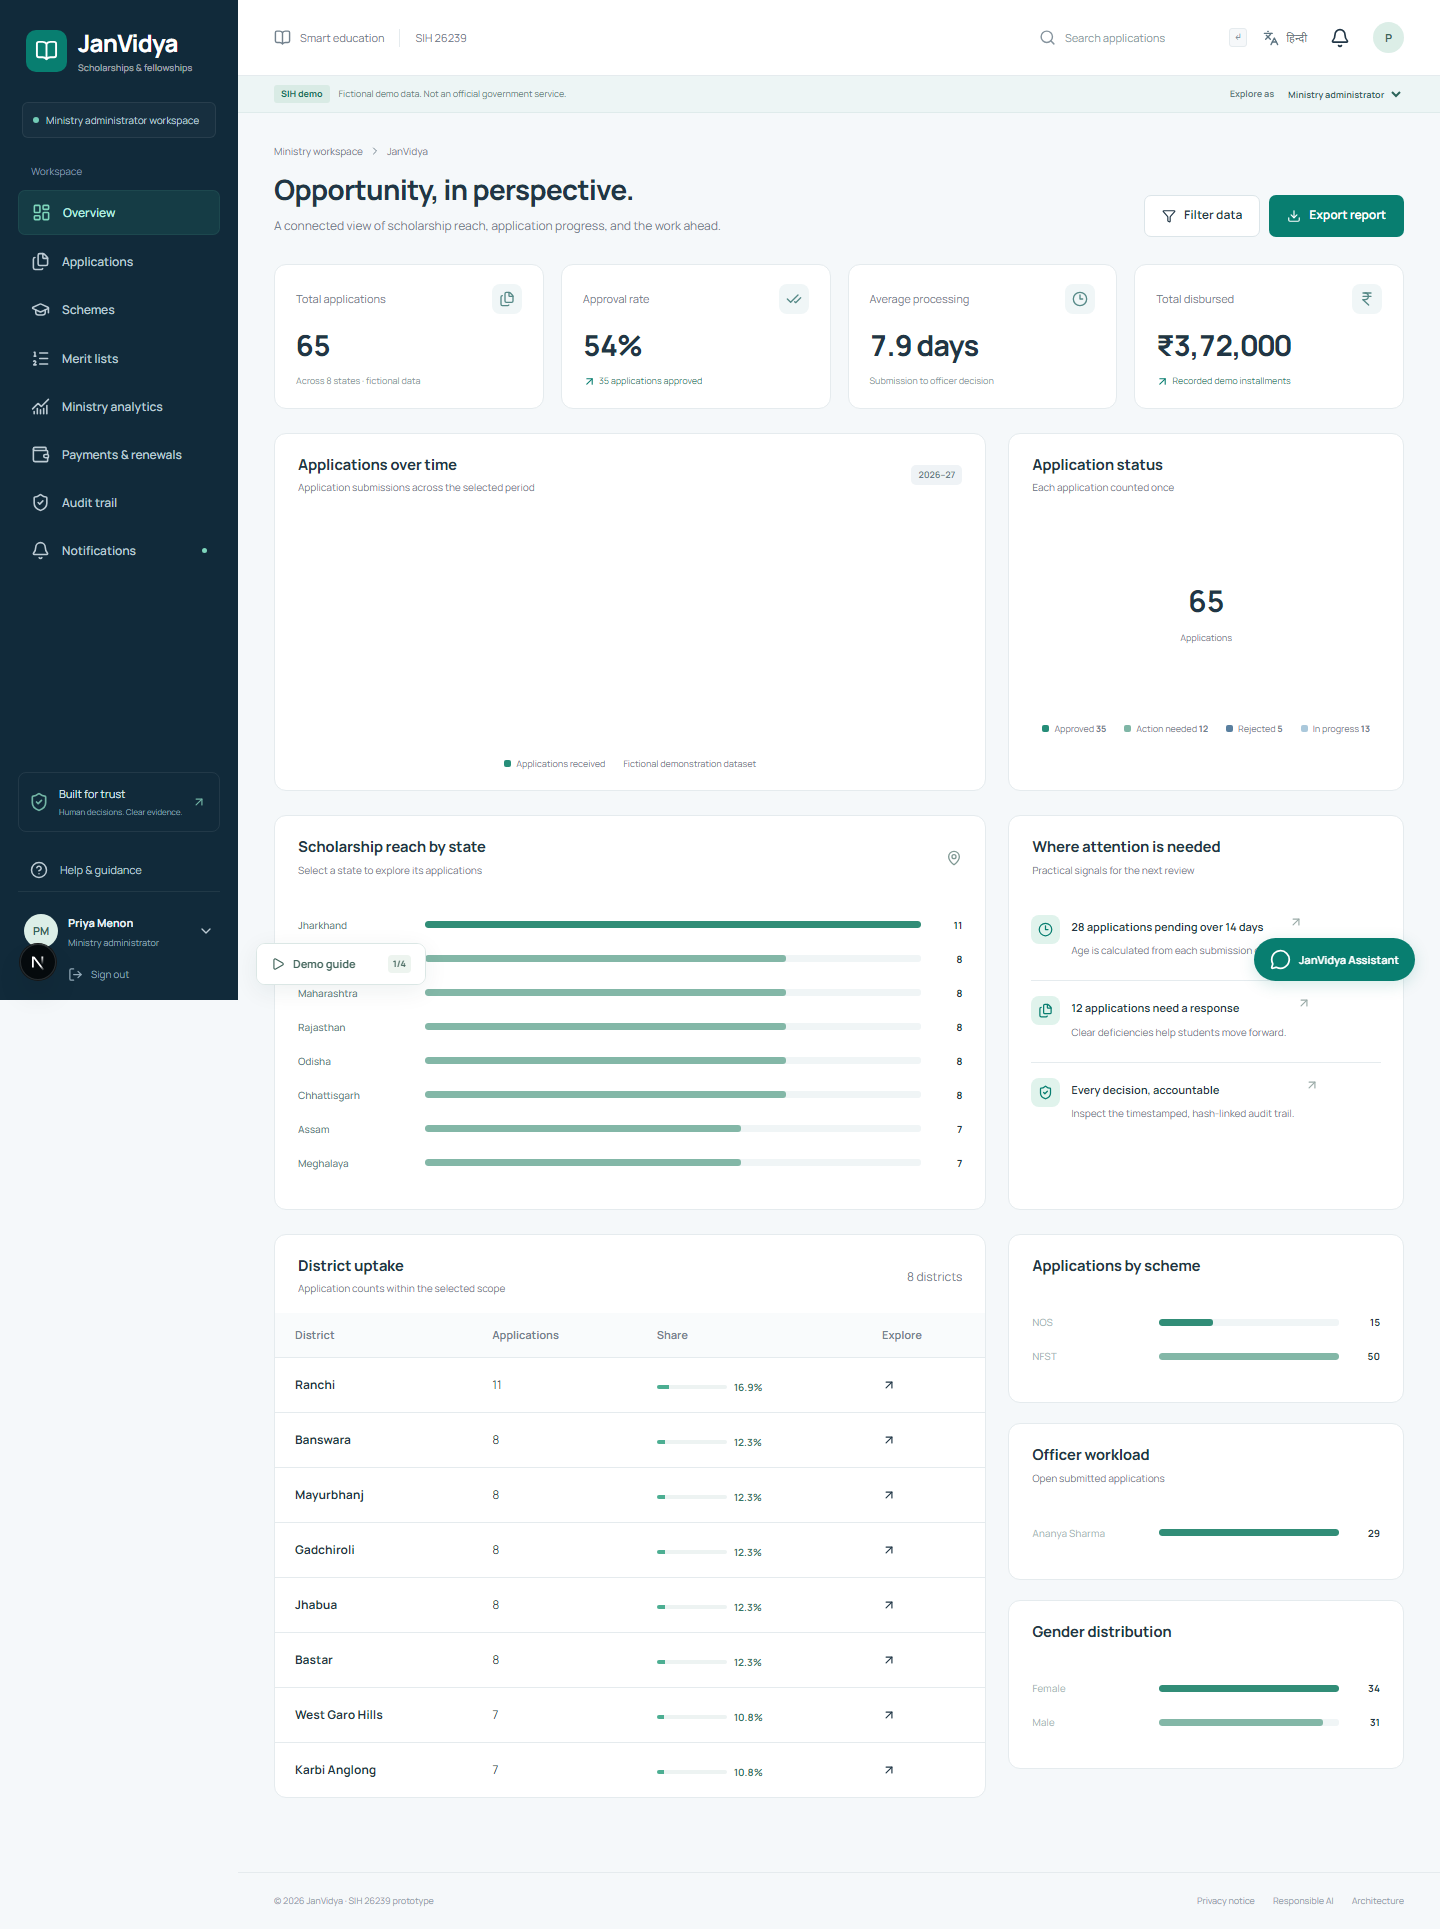
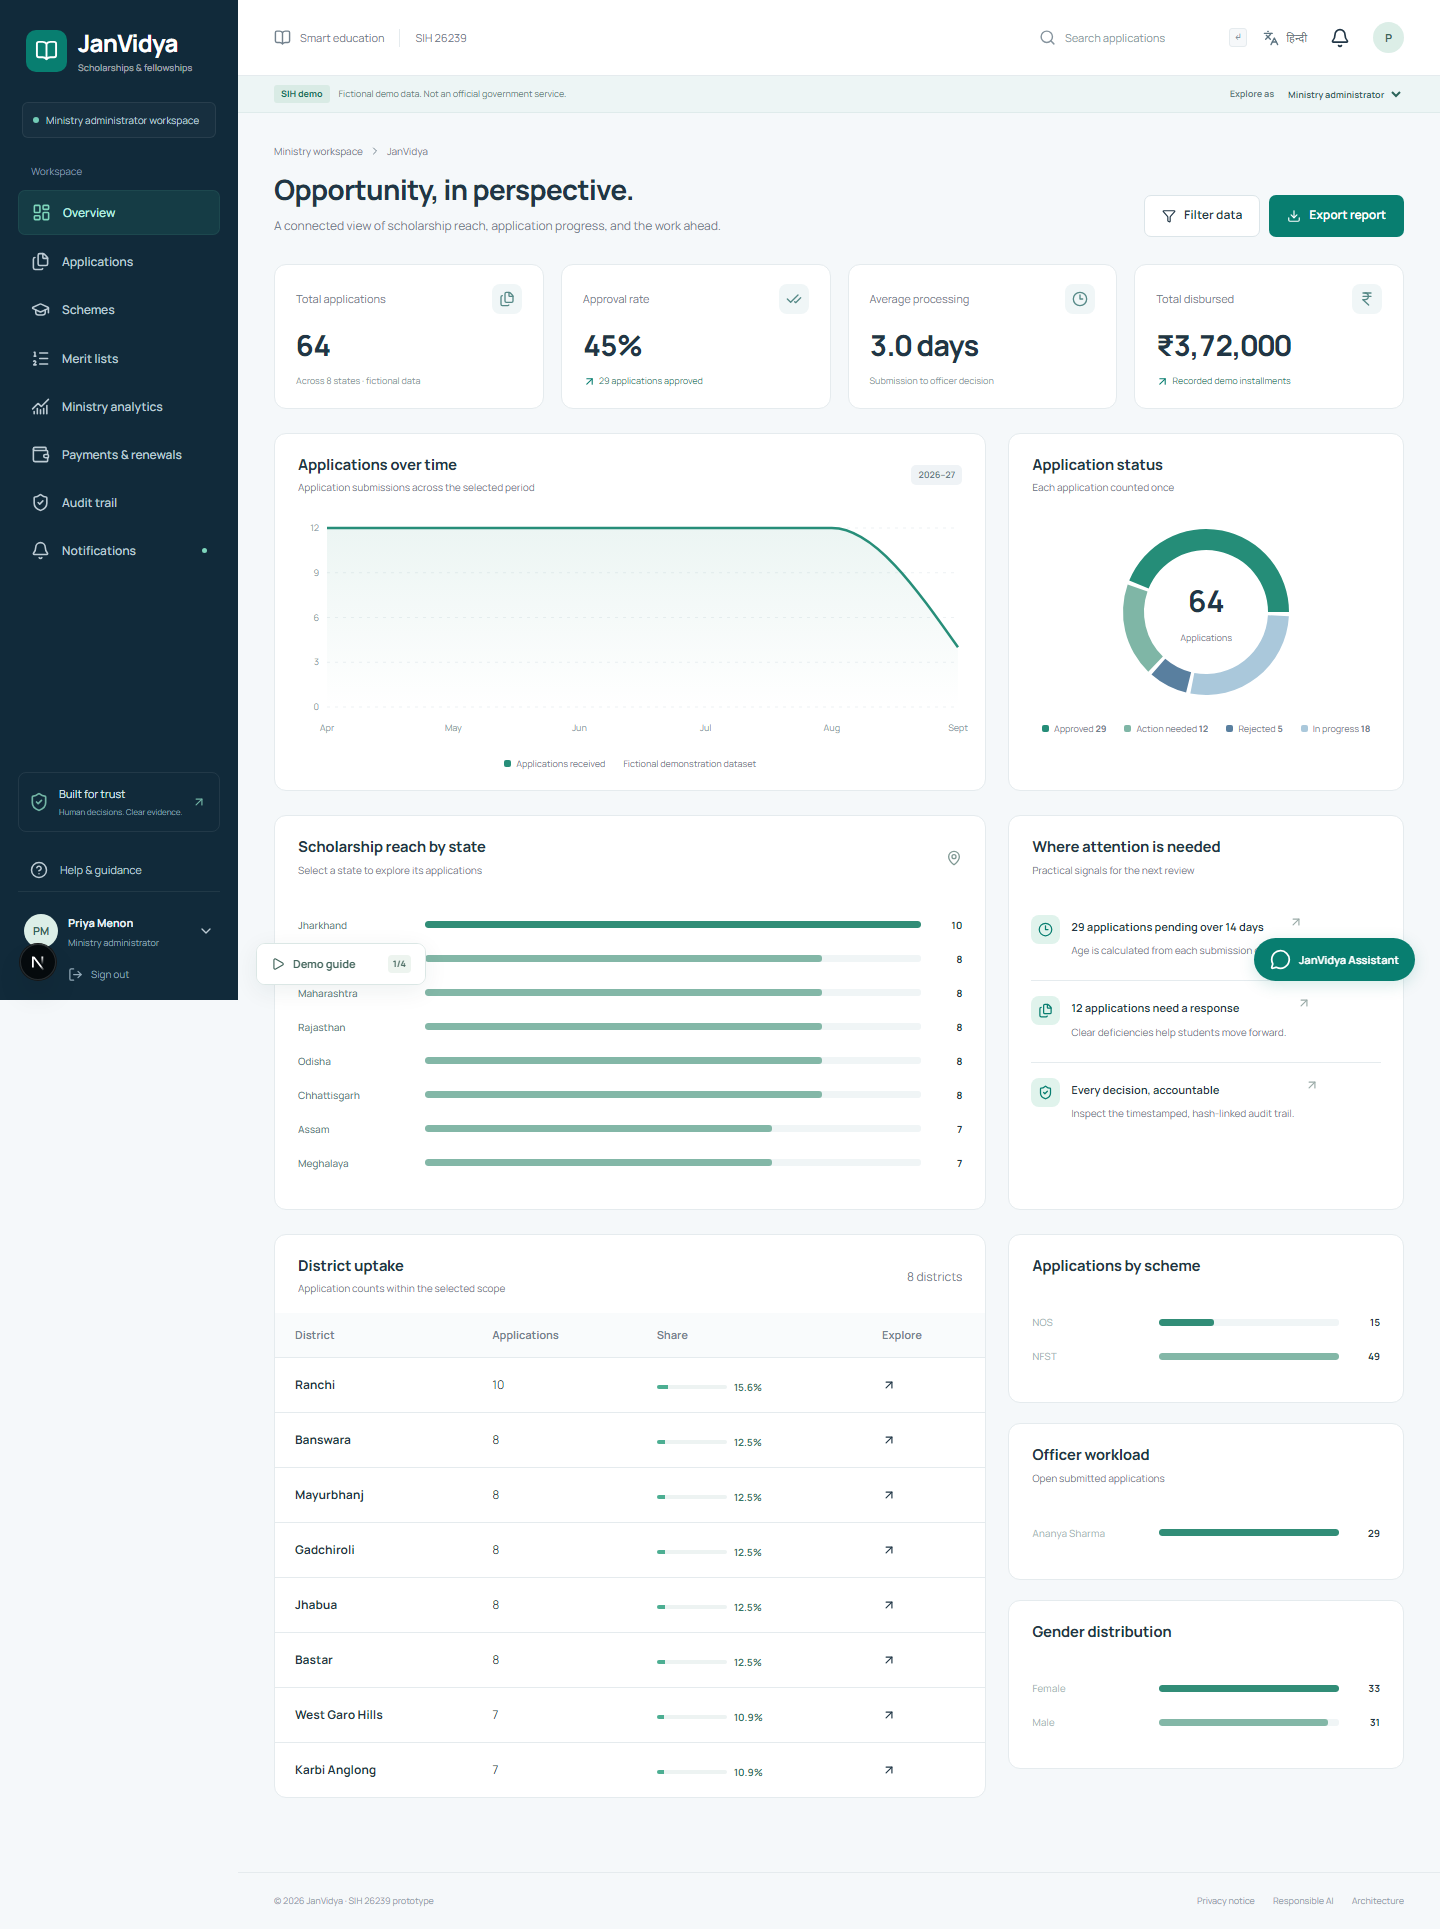
test: capture finished localized and analytics dashboards

Changed region(s): [[0.7812, 0.2488, 0.9062, 0.3733], [0.5312, 0.5288, 0.5625, 0.5599], [0.4062, 0.1555, 0.4375, 0.1866]]

diff --git a/tests/e2e/translation.spec.ts b/tests/e2e/translation.spec.ts
@@ -92,6 +92,10 @@ test("Hindi covers public and role pages and preserves in-progress input", async
       await page.getByRole("tab", { name: "पात्रता", exact: true }).click();
       await expect(page.getByText(/शर्त पूरी/).first()).toBeVisible();
       await page.goto("/workspace");
+      await expect(page.locator("body")).toHaveAttribute("data-localized", "hi");
+      await expect(page.getByRole("heading", { level: 1 })).toContainText(
+        "आपकी नई यात्रा यहाँ से शुरू होती है।",
+      );
       await page.screenshot({
         path: "docs/screenshots/student-hindi.png",
         fullPage: true,

diff --git a/tests/e2e/platform.spec.ts b/tests/e2e/platform.spec.ts
@@ -270,9 +270,14 @@ test("ministry analytics, filters, audit integrity and local assistant", async (
   const request = page.request;
   await post(request, "auth/demo", { role: "ministry_admin" });
   await page.goto("/workspace");
+  await ready(page);
   await expect(
     page.getByRole("heading", { name: "Opportunity, in perspective." }),
   ).toBeVisible();
+  await expect(page.locator(".recharts-area path").first()).toHaveAttribute(
+    "d",
+    /^M/,
+  );
   await page.screenshot({
     path: "docs/screenshots/ministry-dashboard.png",
     fullPage: true,
